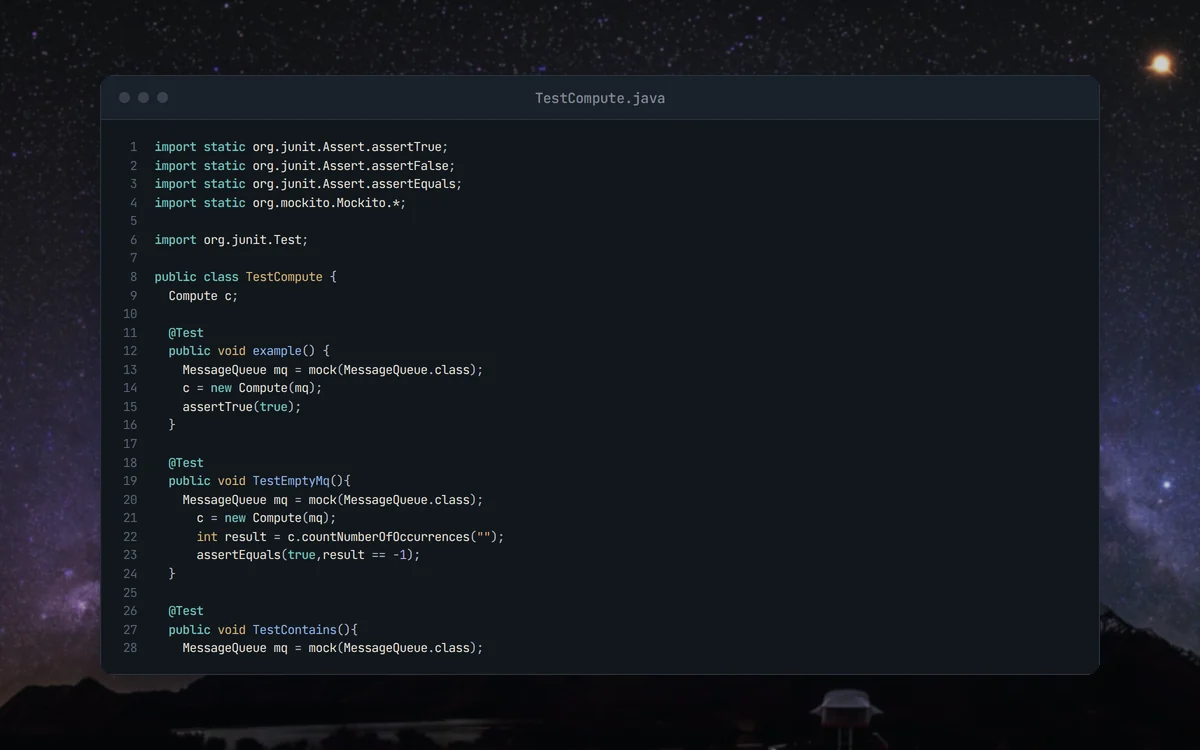
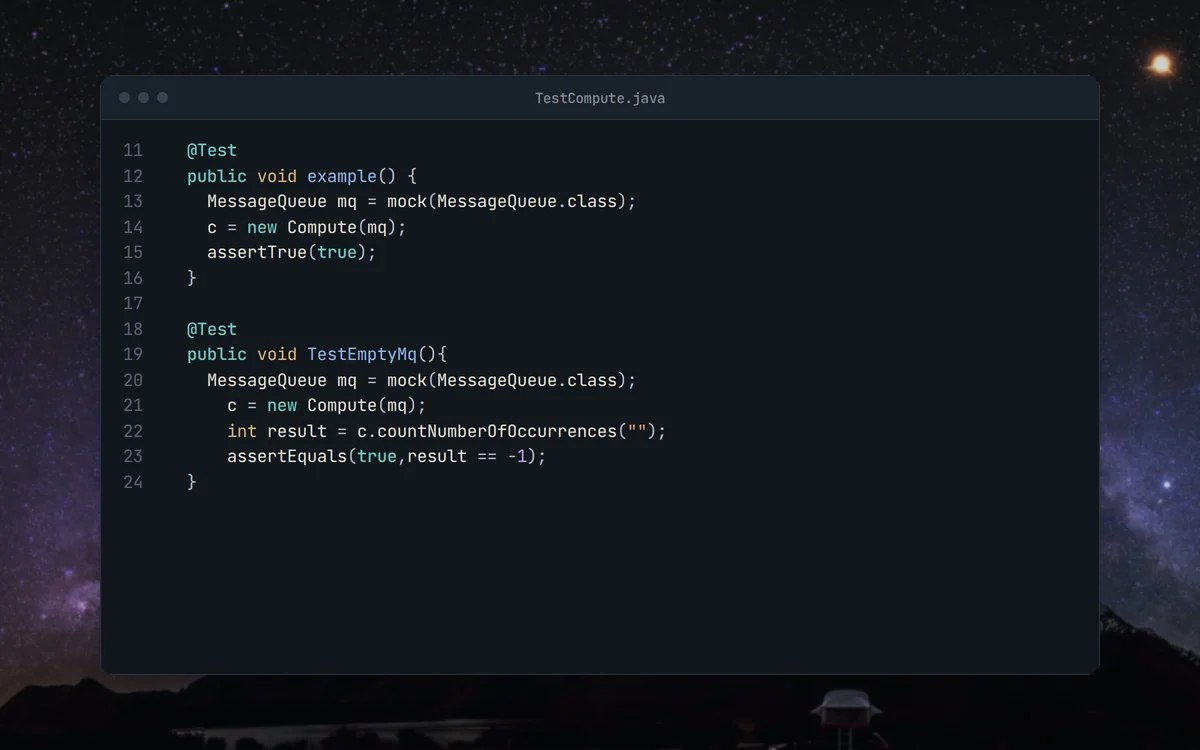
docs(readme): polish the readme visuals

Changed region(s): [[0.0925, 0.184, 0.555, 0.7667], [0.1233, 0.7973, 0.4008, 0.8893]]

diff --git a/README.md b/README.md
@@ -80,7 +80,7 @@ The tests are the coursework, and the exercises around them are there to read.
     <td width="50%" valign="top">
       <picture>
         <source media="(prefers-color-scheme: dark)" srcset="docs/assets/readme/tour/tests-dark.webp">
-        <img src="docs/assets/readme/tour/tests-light.webp" alt="Code card showing the start of TestCompute.java">
+        <img src="docs/assets/readme/tour/tests-light.webp" alt="Code card showing the first two tests in TestCompute.java">
       </picture>
       <h3>Mockito tests</h3>
       TestCompute mocks MessageQueue with Mockito to reach the branches of Compute.
